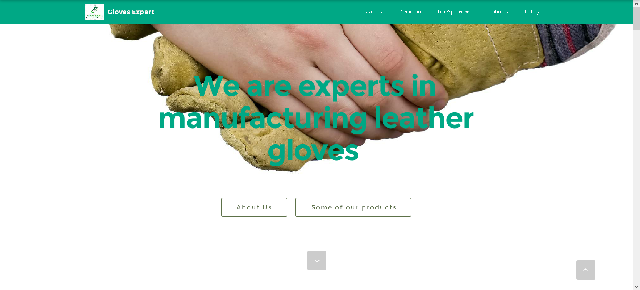
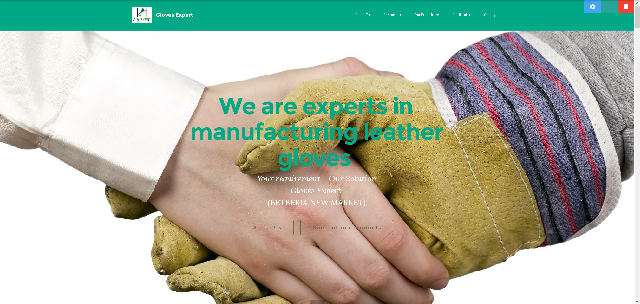
commit

diff --git a/index.html b/index.html
@@ -37,6 +37,7 @@
                     <div class="navbar-brand">
                         <a href="#top" class="navbar-logo"><img src="assets/images/glovesexpertlogo-151x128.jpg" alt="Mobirise"></a>
                         <a class="navbar-caption" href="#top">Gloves Expert</a>
+						<img src="assets/images/CE-1142.jpeg" alt="Mobirise">
                     </div>
 
                 </div>
